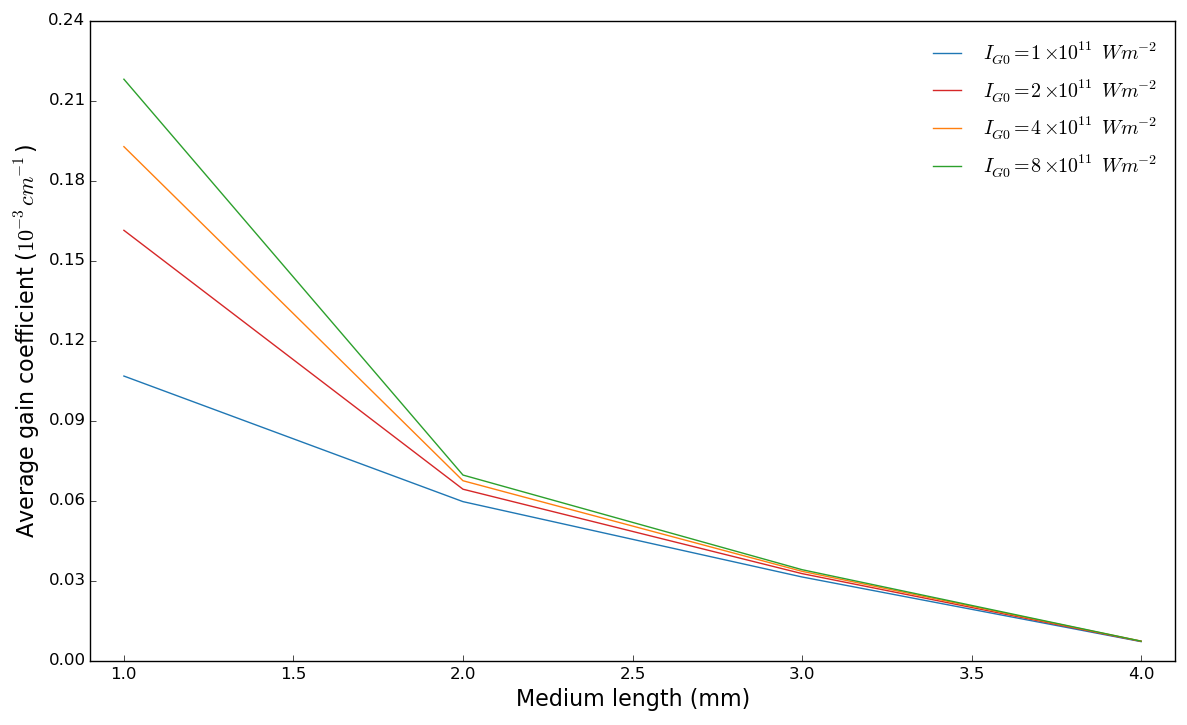
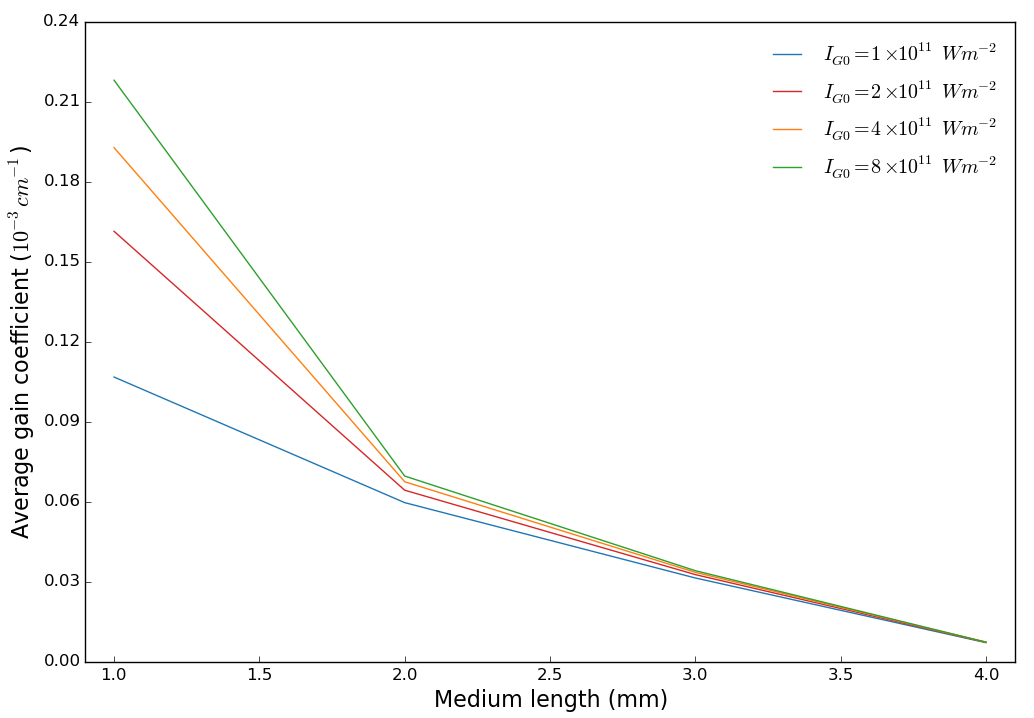
Change figure dimensions

diff --git a/.graphs/18Apr/gain1D.py b/.graphs/18Apr/gain1D.py
@@ -54,7 +54,7 @@ n_L4_2IG0 = N_t*sig_em*np.mean(np.mean(n_L4_2IG0, axis=1), axis=0)
 n_L4_4IG0 = N_t*sig_em*np.mean(np.mean(n_L4_4IG0, axis=1), axis=0)
 n_L4_8IG0 = N_t*sig_em*np.mean(np.mean(n_L4_8IG0, axis=1), axis=0)
 
-fig, ax = plt.subplots(figsize=(14,8))
+fig, ax = plt.subplots(figsize=(12,8))
 
 ax.plot([1, 2, 3, 4], [n_L1_IG0*1e3, n_L2_IG0*1e3, n_L3_IG0*1e3, n_L4_IG0*1e3], color=tableau20[0], label=r'$I_{G0}=1\times 10^{11}\/Wm^{-2}$')
 ax.plot([1, 2, 3, 4], [n_L1_2IG0*1e3, n_L2_2IG0*1e3, n_L3_2IG0*1e3, n_L4_2IG0*1e3], color=tableau20[6], label=r'$I_{G0}=2\times 10^{11}\/Wm^{-2}$')
@@ -71,5 +71,5 @@ lg.draw_frame(False)
 ax.xaxis.set_ticks_position('bottom')
 ax.yaxis.set_ticks_position('left')
 
-fig.savefig('Averagegain.png')
+fig.savefig('Averagegain1D.png')
 #plt.show()

diff --git a/.graphs/18Apr/gain2D.py b/.graphs/18Apr/gain2D.py
@@ -39,7 +39,7 @@ n_L4_4IG0 = N_t*sig_em*np.mean(np.mean(n_L4_4IG0, axis=1), axis=0)
 n_L4_8IG0 = N_t*sig_em*np.mean(np.mean(n_L4_8IG0, axis=1), axis=0)
 
 
-fig, ax = plt.subplots(figsize=(14,8))
+fig, ax = plt.subplots(figsize=(12,8))
 
 ax.plot([2, 3, 4], [n_L2_2IG0*1e3, n_L3_2IG0*1e3, n_L4_2IG0*1e3], color=tableau20[0], label=r'$I_{G0}=2\times 10^{10}\/Wm^{-2}$')
 ax.plot([2, 3, 4], [n_L2_4IG0*1e3, n_L3_4IG0*1e3, n_L4_4IG0*1e3], color=tableau20[6], label=r'$I_{G0}=4\times 10^{10}\/Wm^{-2}$')
@@ -55,4 +55,4 @@ ax.xaxis.set_ticks_position('bottom')
 ax.yaxis.set_ticks_position('left')
 
 fig.savefig('Averagegain2D.png')
-plt.show()
+#plt.show()
